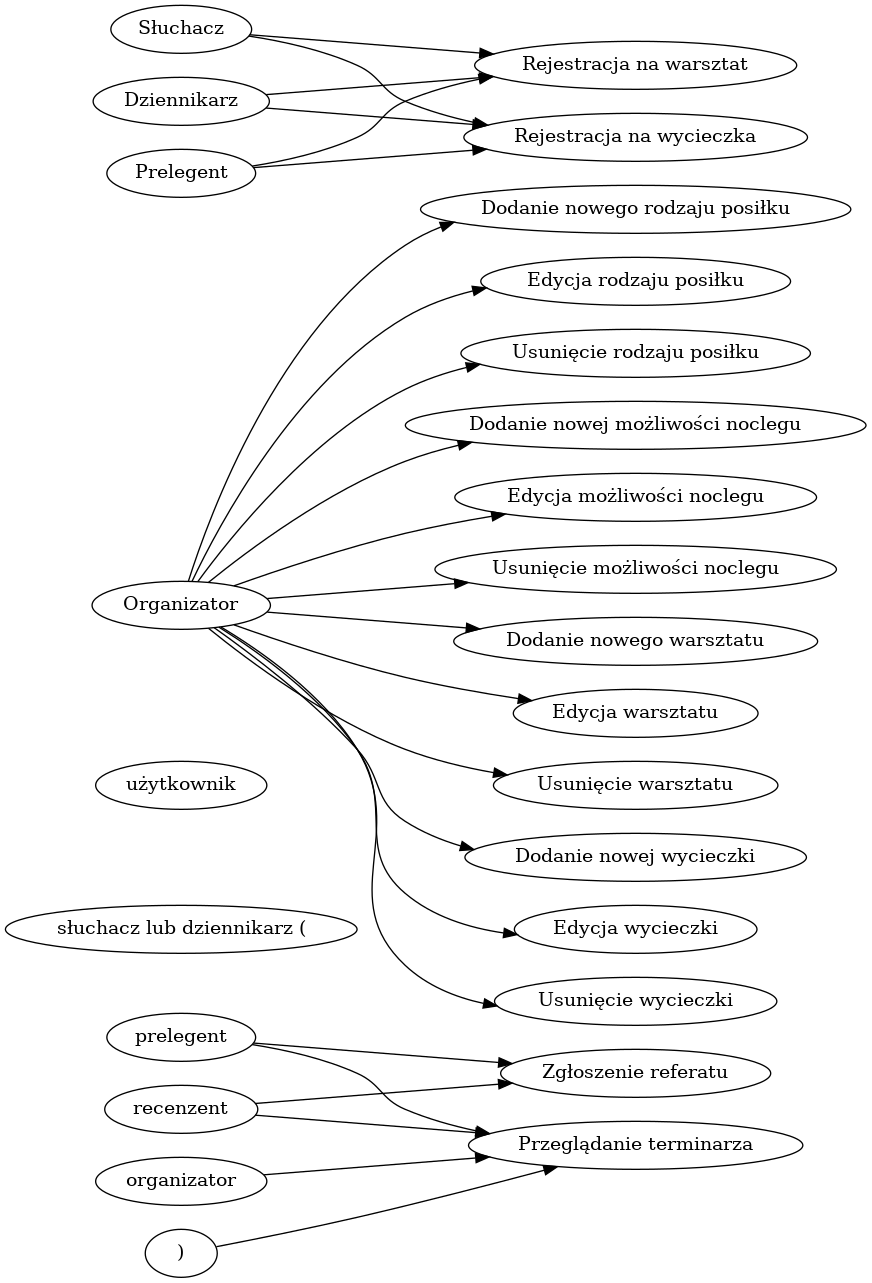
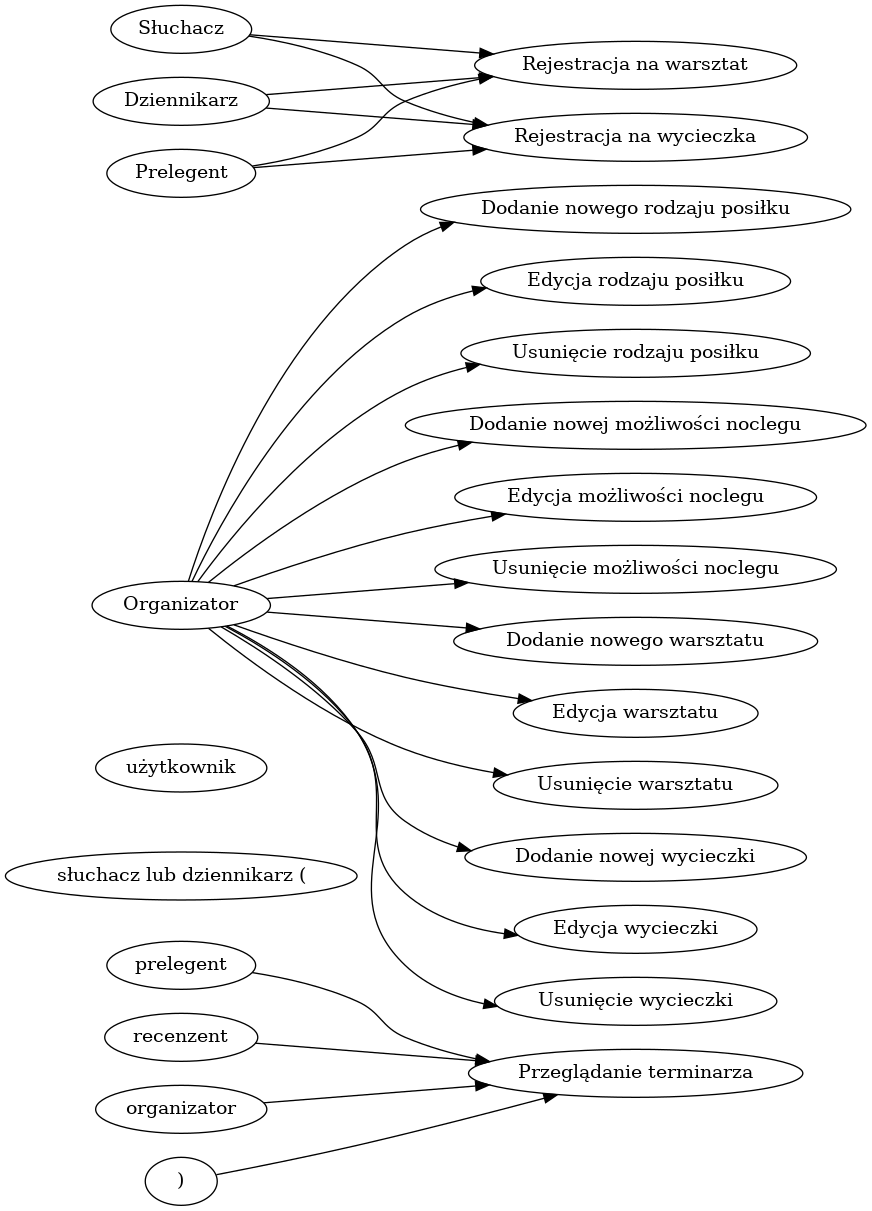
Changes so far

diff --git a/iop.html b/iop.html
@@ -22,43 +22,14 @@
 </ul>
 <script>setTimeout(function() { location.reload(); }, 1000);</script>
 <h2 id="przypadki-biznesowe">Przypadki Biznesowe</h2>
-<h3 id="pb1-zgłoszenie-referatu">PB1 Zgłoszenie referatu</h3>
-<p>Aktorzy: prelegent, recenzent</p>
-<p><em>Scenariusz główny:</em></p>
-<ol style="list-style-type: decimal">
-<li>Prelegent wypełnia formularz z danymi:</li>
-</ol>
-<ul>
-<li>temat prezentacji</li>
-<li>abstrakt</li>
-<li>dane kontaktowe</li>
-<li>draft publikacji.</li>
-</ul>
-<ol start="2" style="list-style-type: decimal">
-<li>System zapisuje publikację.</li>
-<li>System wysyła e-mail z potwierdzeniem do prelegenta.</li>
-</ol>
-<p><em>Scenariusz alternatywny 1:</em></p>
-<ol style="list-style-type: decimal">
-<li><p>Jak w scenariuszu głównym</p></li>
-<li>Dane są niepoprawne.</li>
-<li>System wyświetla komunikat o błędzie.</li>
-<li><p>Powrót do punktu 1.</p></li>
-</ol>
-<p><em>Scenariusz alternatywny 2:</em></p>
-<p>1-2. Jak w scenariuszu głównym</p>
-<ol start="3" style="list-style-type: decimal">
-<li>Prelegent jest osobą zaproszoną.</li>
-<li>Publikacja jest automatycznie akceptowana.</li>
-</ol>
-<h3 id="pb2-przeglądanie-terminarza">PB2 Przeglądanie terminarza</h3>
+<h3 id="pb1-przeglądanie-terminarza">PB1 Przeglądanie terminarza</h3>
 <p>Aktorzy: prelegent, recenzent, organizator, słuchacz lub dziennikarz (&quot;użytkownik&quot;)</p>
 <p><em>Scenariusz główny:</em></p>
 <ol style="list-style-type: decimal">
 <li>Użytkownik wybiera opcję &quot;Przeglądanie terminarza&quot;.</li>
 <li>System prezentuje listę wydarzeń wraz i ich terminami.</li>
 </ol>
-<h3 id="pb3-dodanie-nowego-rodzaju-posiłku">PB3 Dodanie nowego rodzaju posiłku</h3>
+<h3 id="pb2-dodanie-nowego-rodzaju-posiłku">PB2 Dodanie nowego rodzaju posiłku</h3>
 <p>Aktorzy: Organizator</p>
 <p><em>Scenariusz główny:</em></p>
 <ol style="list-style-type: decimal">
@@ -75,7 +46,7 @@
 <li>System wyświetla komunikat o błędzie.</li>
 <li>Powrót do punktu 1.</li>
 </ol>
-<h3 id="pb4-edycja-rodzaju-posiłku">PB4 Edycja rodzaju posiłku</h3>
+<h3 id="pb3-edycja-rodzaju-posiłku">PB3 Edycja rodzaju posiłku</h3>
 <p>Aktorzy: Organizator</p>
 <p><em>Scenariusz główny:</em></p>
 <ol style="list-style-type: decimal">
@@ -94,7 +65,7 @@
 <li>System wyświetla komunikat o błędzie.</li>
 <li>Powrót do punktu 1.</li>
 </ol>
-<h3 id="pb5-usunięcie-rodzaju-posiłku">PB5 Usunięcie rodzaju posiłku</h3>
+<h3 id="pb4-usunięcie-rodzaju-posiłku">PB4 Usunięcie rodzaju posiłku</h3>
 <p>Aktorzy: Organizator</p>
 <p><em>Scenariusz główny:</em></p>
 <ol style="list-style-type: decimal">
@@ -112,7 +83,7 @@
 <li>System wyświetla osoby, przez które rodzaj posiłku został wybrany.</li>
 <li>Powrót do punktu 1.</li>
 </ol>
-<h3 id="pb6-dodanie-nowej-możliwości-noclegu">PB6 Dodanie nowej możliwości noclegu</h3>
+<h3 id="pb5-dodanie-nowej-możliwości-noclegu">PB5 Dodanie nowej możliwości noclegu</h3>
 <p>Aktorzy: Organizator</p>
 <p><em>Scenariusz główny:</em></p>
 <ol style="list-style-type: decimal">
@@ -129,7 +100,7 @@
 <li>System wyświetla komunikat o błędzie.</li>
 <li>Powrót do punktu 1.</li>
 </ol>
-<h3 id="pb7-edycja-możliwości-noclegu">PB7 Edycja możliwości noclegu</h3>
+<h3 id="pb6-edycja-możliwości-noclegu">PB6 Edycja możliwości noclegu</h3>
 <p>Aktorzy: Organizator</p>
 <p><em>Scenariusz główny:</em></p>
 <ol style="list-style-type: decimal">
@@ -148,7 +119,7 @@
 <li>System wyświetla komunikat o błędzie.</li>
 <li>Powrót do punktu 1.</li>
 </ol>
-<h3 id="pb8-usunięcie-możliwości-noclegu">PB8 Usunięcie możliwości noclegu</h3>
+<h3 id="pb7-usunięcie-możliwości-noclegu">PB7 Usunięcie możliwości noclegu</h3>
 <p>Aktorzy: Organizator</p>
 <p><em>Scenariusz główny:</em></p>
 <ol style="list-style-type: decimal">
@@ -159,7 +130,7 @@
 <li>System usuwa możliwość noclegu.</li>
 <li>System wyświetla komunikat o sukcesie.</li>
 </ol>
-<h3 id="pb9-dodanie-nowego-warsztatu">PB9 Dodanie nowego warsztatu</h3>
+<h3 id="pb8-dodanie-nowego-warsztatu">PB8 Dodanie nowego warsztatu</h3>
 <p>Aktorzy: Organizator</p>
 <p><em>Scenariusz główny:</em></p>
 <ol style="list-style-type: decimal">
@@ -176,7 +147,7 @@
 <li>System wyświetla komunikat o błędzie.</li>
 <li>Powrót do punktu 1.</li>
 </ol>
-<h3 id="pb10-edycja-warsztatu">PB10 Edycja warsztatu</h3>
+<h3 id="pb9-edycja-warsztatu">PB9 Edycja warsztatu</h3>
 <p>Aktorzy: Organizator</p>
 <p><em>Scenariusz główny:</em></p>
 <ol style="list-style-type: decimal">
@@ -195,7 +166,7 @@
 <li>System wyświetla komunikat o błędzie.</li>
 <li>Powrót do punktu 1.</li>
 </ol>
-<h3 id="pb11-usunięcie-warsztatu">PB11 Usunięcie warsztatu</h3>
+<h3 id="pb10-usunięcie-warsztatu">PB10 Usunięcie warsztatu</h3>
 <p>Aktorzy: Organizator</p>
 <p><em>Scenariusz główny:</em></p>
 <ol style="list-style-type: decimal">
@@ -206,7 +177,7 @@
 <li>System usuwa warsztat.</li>
 <li>System wyświetla komunikat o sukcesie.</li>
 </ol>
-<h3 id="pb12-dodanie-nowej-wycieczki">PB12 Dodanie nowej wycieczki</h3>
+<h3 id="pb11-dodanie-nowej-wycieczki">PB11 Dodanie nowej wycieczki</h3>
 <p>Aktorzy: Organizator</p>
 <p><em>Scenariusz główny:</em></p>
 <ol style="list-style-type: decimal">
@@ -223,7 +194,7 @@
 <li>System wyświetla komunikat o błędzie.</li>
 <li>Powrót do punktu 1.</li>
 </ol>
-<h3 id="pb13-edycja-wycieczki">PB13 Edycja wycieczki</h3>
+<h3 id="pb12-edycja-wycieczki">PB12 Edycja wycieczki</h3>
 <p>Aktorzy: Organizator</p>
 <p><em>Scenariusz główny:</em></p>
 <ol style="list-style-type: decimal">
@@ -242,7 +213,7 @@
 <li>System wyświetla komunikat o błędzie.</li>
 <li>Powrót do punktu 1.</li>
 </ol>
-<h3 id="pb14-usunięcie-wycieczki">PB14 Usunięcie wycieczki</h3>
+<h3 id="pb13-usunięcie-wycieczki">PB13 Usunięcie wycieczki</h3>
 <p>Aktorzy: Organizator</p>
 <p><em>Scenariusz główny:</em></p>
 <ol style="list-style-type: decimal">
@@ -253,7 +224,7 @@
 <li>System usuwa wycieczkę.</li>
 <li>System wyświetla komunikat o sukcesie.</li>
 </ol>
-<h3 id="pb15-rejestracja-na-warsztat">PB15 Rejestracja na warsztat</h3>
+<h3 id="pb14-rejestracja-na-warsztat">PB14 Rejestracja na warsztat</h3>
 <p>Aktorzy: Słuchacz, Dziennikarz, Prelegent</p>
 <p><em>Scenariusz główny:</em></p>
 <ol style="list-style-type: decimal">
@@ -271,7 +242,7 @@
 <li>System wyświetla komunikat o błędzie.</li>
 <li>Powrót do punktu 1.</li>
 </ol>
-<h3 id="pb16-rejestracja-na-wycieczka">PB16 Rejestracja na wycieczka</h3>
+<h3 id="pb15-rejestracja-na-wycieczka">PB15 Rejestracja na wycieczka</h3>
 <p>Aktorzy: Słuchacz, Dziennikarz, Prelegent</p>
 <p><em>Scenariusz główny:</em></p>
 <ol style="list-style-type: decimal">

diff --git a/gienierator.py b/gienierator.py
@@ -141,23 +141,23 @@ def CRUD(thing, fields, delete_alt=None, aktor='Organizator'):
         delete_alt()
 
 ###############################################################################
-PB('Zgłoszenie referatu', 'prelegent, recenzent')
-p_form = punkt("""Prelegent wypełnia formularz z danymi:
- - temat prezentacji
- - abstrakt
- - dane kontaktowe
- - draft publikacji""")
-p_zapis = punkt("System zapisuje publikację")
-punkt("System wysyła e-mail z potwierdzeniem do prelegenta")
-
-alt(p_form)
-punkt("Dane są niepoprawne")
-punkt("System wyświetla komunikat o błędzie")
-powrot(p_form)
-
-alt(p_zapis)
-punkt("Prelegent jest osobą zaproszoną")
-punkt("Publikacja jest automatycznie akceptowana")
+#   PB('Zgłoszenie referatu', 'prelegent, recenzent')
+#   p_form = punkt("""Prelegent wypełnia formularz z danymi:
+#    - temat prezentacji
+#    - abstrakt
+#    - dane kontaktowe
+#    - draft publikacji""")
+#   p_zapis = punkt("System zapisuje publikację")
+#   punkt("System wysyła e-mail z potwierdzeniem do prelegenta")
+#   
+#   alt(p_form)
+#   punkt("Dane są niepoprawne")
+#   punkt("System wyświetla komunikat o błędzie")
+#   powrot(p_form)
+#   
+#   alt(p_zapis)
+#   punkt("Prelegent jest osobą zaproszoną")
+#   punkt("Publikacja jest automatycznie akceptowana")
 
 
 ###############################################################################

diff --git a/iop.md b/iop.md
@@ -16,36 +16,7 @@ organizacja eventu - program wystąpień, eventy typu przyjęcie, wycieczka ze z
 
 ## Przypadki Biznesowe
 
-### PB1 Zgłoszenie referatu
-
-Aktorzy: prelegent, recenzent
-
-_Scenariusz główny:_
-
-1. Prelegent wypełnia formularz z danymi:
- - temat prezentacji
- - abstrakt
- - dane kontaktowe
- - draft publikacji.
-2. System zapisuje publikację.
-3. System wysyła e-mail z potwierdzeniem do prelegenta.
-
-_Scenariusz alternatywny 1:_
-
-1. Jak w scenariuszu głównym
-
-2. Dane są niepoprawne.
-3. System wyświetla komunikat o błędzie.
-4. Powrót do punktu 1.
-
-_Scenariusz alternatywny 2:_
-
-1-2. Jak w scenariuszu głównym
-
-3. Prelegent jest osobą zaproszoną.
-4. Publikacja jest automatycznie akceptowana.
-
-### PB2 Przeglądanie terminarza
+### PB1 Przeglądanie terminarza
 
 Aktorzy: prelegent, recenzent, organizator, słuchacz lub dziennikarz ("użytkownik")
 
@@ -54,7 +25,7 @@ _Scenariusz główny:_
 1. Użytkownik wybiera opcję "Przeglądanie terminarza".
 2. System prezentuje listę wydarzeń wraz i ich terminami.
 
-### PB3 Dodanie nowego rodzaju posiłku
+### PB2 Dodanie nowego rodzaju posiłku
 
 Aktorzy: Organizator
 
@@ -74,7 +45,7 @@ _Scenariusz alternatywny 1:_
 5. System wyświetla komunikat o błędzie.
 6. Powrót do punktu 1.
 
-### PB4 Edycja rodzaju posiłku
+### PB3 Edycja rodzaju posiłku
 
 Aktorzy: Organizator
 
@@ -96,7 +67,7 @@ _Scenariusz alternatywny 1:_
 7. System wyświetla komunikat o błędzie.
 8. Powrót do punktu 1.
 
-### PB5 Usunięcie rodzaju posiłku
+### PB4 Usunięcie rodzaju posiłku
 
 Aktorzy: Organizator
 
@@ -117,7 +88,7 @@ _Scenariusz alternatywny 1:_
 6. System wyświetla osoby, przez które rodzaj posiłku został wybrany.
 7. Powrót do punktu 1.
 
-### PB6 Dodanie nowej możliwości noclegu
+### PB5 Dodanie nowej możliwości noclegu
 
 Aktorzy: Organizator
 
@@ -137,7 +108,7 @@ _Scenariusz alternatywny 1:_
 5. System wyświetla komunikat o błędzie.
 6. Powrót do punktu 1.
 
-### PB7 Edycja możliwości noclegu
+### PB6 Edycja możliwości noclegu
 
 Aktorzy: Organizator
 
@@ -159,7 +130,7 @@ _Scenariusz alternatywny 1:_
 7. System wyświetla komunikat o błędzie.
 8. Powrót do punktu 1.
 
-### PB8 Usunięcie możliwości noclegu
+### PB7 Usunięcie możliwości noclegu
 
 Aktorzy: Organizator
 
@@ -172,7 +143,7 @@ _Scenariusz główny:_
 5. System usuwa możliwość noclegu.
 6. System wyświetla komunikat o sukcesie.
 
-### PB9 Dodanie nowego warsztatu
+### PB8 Dodanie nowego warsztatu
 
 Aktorzy: Organizator
 
@@ -192,7 +163,7 @@ _Scenariusz alternatywny 1:_
 5. System wyświetla komunikat o błędzie.
 6. Powrót do punktu 1.
 
-### PB10 Edycja warsztatu
+### PB9 Edycja warsztatu
 
 Aktorzy: Organizator
 
@@ -214,7 +185,7 @@ _Scenariusz alternatywny 1:_
 7. System wyświetla komunikat o błędzie.
 8. Powrót do punktu 1.
 
-### PB11 Usunięcie warsztatu
+### PB10 Usunięcie warsztatu
 
 Aktorzy: Organizator
 
@@ -227,7 +198,7 @@ _Scenariusz główny:_
 5. System usuwa warsztat.
 6. System wyświetla komunikat o sukcesie.
 
-### PB12 Dodanie nowej wycieczki
+### PB11 Dodanie nowej wycieczki
 
 Aktorzy: Organizator
 
@@ -247,7 +218,7 @@ _Scenariusz alternatywny 1:_
 5. System wyświetla komunikat o błędzie.
 6. Powrót do punktu 1.
 
-### PB13 Edycja wycieczki
+### PB12 Edycja wycieczki
 
 Aktorzy: Organizator
 
@@ -269,7 +240,7 @@ _Scenariusz alternatywny 1:_
 7. System wyświetla komunikat o błędzie.
 8. Powrót do punktu 1.
 
-### PB14 Usunięcie wycieczki
+### PB13 Usunięcie wycieczki
 
 Aktorzy: Organizator
 
@@ -282,7 +253,7 @@ _Scenariusz główny:_
 5. System usuwa wycieczkę.
 6. System wyświetla komunikat o sukcesie.
 
-### PB15 Rejestracja na warsztat
+### PB14 Rejestracja na warsztat
 
 Aktorzy: Słuchacz, Dziennikarz, Prelegent
 
@@ -303,7 +274,7 @@ _Scenariusz alternatywny 1:_
 6. System wyświetla komunikat o błędzie.
 7. Powrót do punktu 1.
 
-### PB16 Rejestracja na wycieczka
+### PB15 Rejestracja na wycieczka
 
 Aktorzy: Słuchacz, Dziennikarz, Prelegent
 
